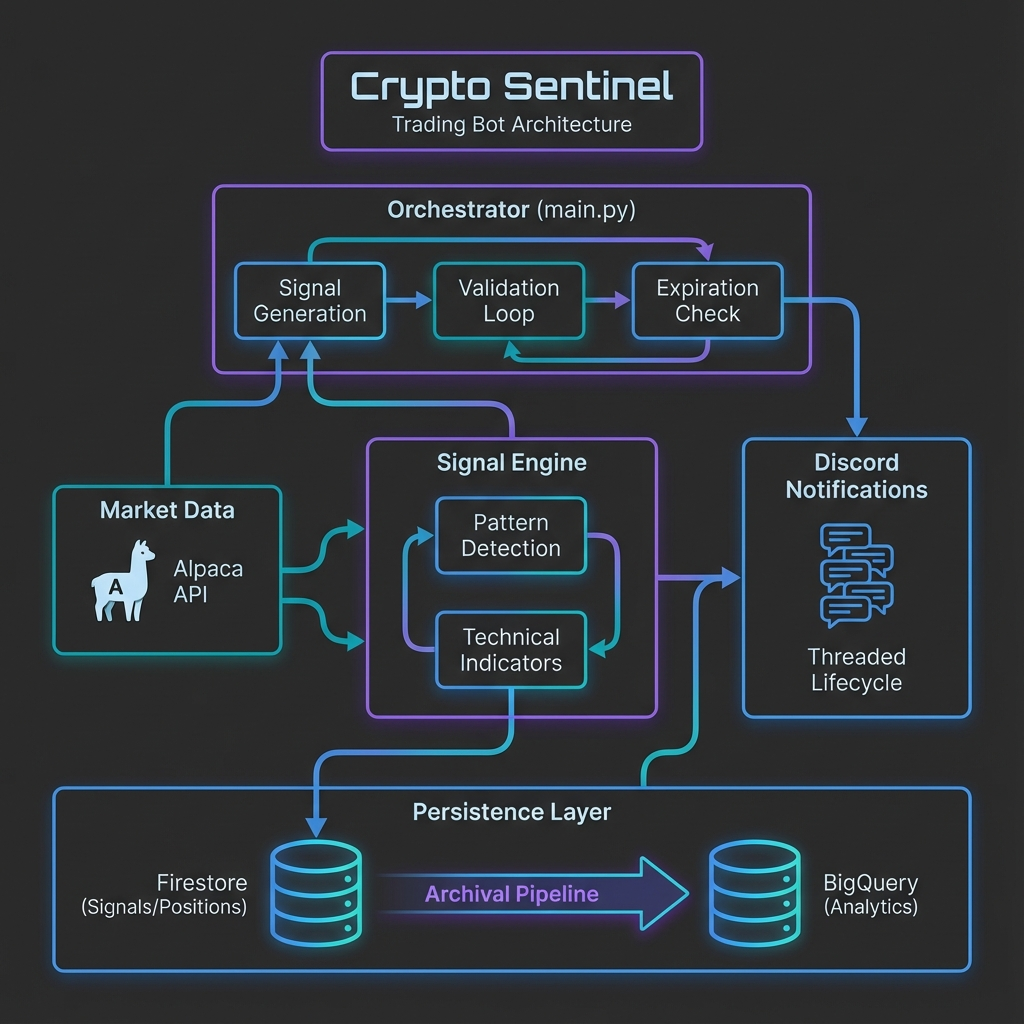
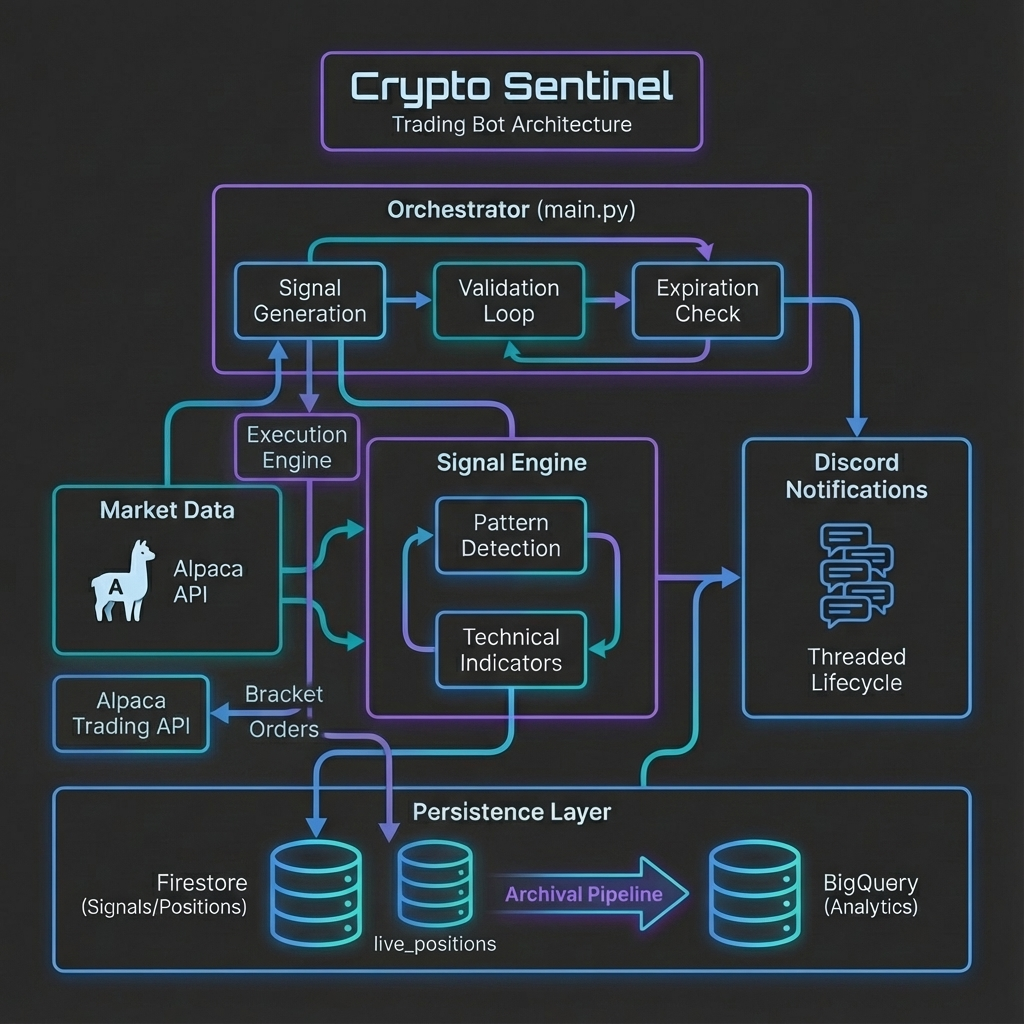
docs: updated docs to reflect current state

Changed region(s): [[0.0312, 0.3438, 0.6562, 0.9375], [0.7188, 0.875, 0.75, 0.9062]]

diff --git a/src/crypto_signals/domain/schemas.py b/src/crypto_signals/domain/schemas.py
@@ -246,17 +246,26 @@ class Position(BaseModel):
     """
     Open position/trade stored in Firestore live_positions collection.
 
-    Represents an actual trade executed based on a signal.
+    Represents an actual trade executed based on a Signal via the ExecutionEngine.
 
-    WARNING:
-        position_id MUST match the Alpaca Client Order ID for idempotency.
-        This ensures we can reconcile positions with the broker and prevent
-        duplicate order submissions.
+    Key Relationships:
+        - position_id: Set to signal_id for idempotency. This is also used as
+          client_order_id when submitting to Alpaca, allowing reconciliation.
+        - signal_id: Reference back to the originating Signal document.
+        - alpaca_order_id: The order ID returned by Alpaca after submission.
+          Use this to query order status and manage the position.
+
+    Example:
+        Signal generates -> ExecutionEngine submits bracket order ->
+        Position created with position_id = signal_id, alpaca_order_id = order.id
     """
 
     position_id: str = Field(
         ...,
-        description="Must match Alpaca Client Order ID for idempotency",
+        description=(
+            "Unique position identifier. Set to signal_id to ensure idempotency "
+            "and allow duplicate detection."
+        ),
     )
     ds: date = Field(
         ...,
@@ -264,15 +273,18 @@ class Position(BaseModel):
     )
     account_id: str = Field(
         ...,
-        description="Alpaca account ID",
+        description="Alpaca account ID (e.g., 'paper' for paper trading)",
     )
     signal_id: str = Field(
         ...,
-        description="Reference to the signal that triggered this position",
+        description="Reference to the Signal that triggered this position",
     )
     alpaca_order_id: Optional[str] = Field(
         default=None,
-        description="Alpaca order ID returned from order submission",
+        description=(
+            "Alpaca's order ID returned after order submission. "
+            "Used for order status queries and reconciliation."
+        ),
     )
     discord_thread_id: Optional[str] = Field(
         default=None,

diff --git a/src/crypto_signals/engine/execution.py b/src/crypto_signals/engine/execution.py
@@ -134,17 +134,15 @@ class ExecutionEngine:
                 },
             )
 
-            # Create Position object for persistence
-            # Note: account_id should be fetched from TradingClient.get_account() in production
             position = Position(
-                position_id=signal.signal_id,  # Match client_order_id for idempotency
+                position_id=signal.signal_id,
                 ds=signal.ds,
-                account_id="paper",  # TODO: Fetch from self.client.get_account().id
+                account_id="paper",  # TODO: Fetch from client.get_account().id
                 signal_id=signal.signal_id,
-                alpaca_order_id=str(order.id),  # Track Alpaca order for reconciliation
+                alpaca_order_id=str(order.id),
                 discord_thread_id=signal.discord_thread_id,
                 status=TradeStatus.OPEN,
-                entry_fill_price=signal.entry_price,  # Will update on fill
+                entry_fill_price=signal.entry_price,
                 current_stop_loss=signal.suggested_stop,
                 qty=qty,
                 side=effective_side,

diff --git a/DEPLOYMENT_CHECKLIST.md b/DEPLOYMENT_CHECKLIST.md
@@ -37,6 +37,8 @@ Use this checklist before deploying Crypto Sentinel to production.
 - [ ] Created GOOGLE_CLOUD_PROJECT secret
 - [ ] Created ALPACA_PAPER_TRADING secret
 - [ ] Created TEST_MODE secret
+- [ ] Created ENABLE_EXECUTION secret (default: false)
+- [ ] Created RISK_PER_TRADE secret (default: 100.0)
 - [ ] (Optional) Created LIVE_CRYPTO_DISCORD_WEBHOOK_URL secret (for production)
 - [ ] (Optional) Created LIVE_STOCK_DISCORD_WEBHOOK_URL secret (for production)
 - [ ] Verified all secrets accessible via gcloud
@@ -73,6 +75,7 @@ Use this checklist before deploying Crypto Sentinel to production.
 
 - [ ] Firestore database created in us-central1 (or your region)
 - [ ] Collection `live_signals` exists
+- [ ] Collection `live_positions` exists (for execution engine)
 - [ ] Test document created and read successfully
 - [ ] Cleanup query tested (expiration_at filter)
 - [ ] TTL field verified on saved signals
@@ -97,6 +100,34 @@ Use this checklist before deploying Crypto Sentinel to production.
 - [ ] IAM permissions set to least privilege
 - [ ] Rate limiting configured (RATE_LIMIT_DELAY >= 0.5)
 - [ ] Paper trading enabled for initial deployment
+
+## ✅ Execution Engine Verification (Optional)
+
+> Only complete this section if enabling automated order execution.
+
+### Risk Settings
+- [ ] `RISK_PER_TRADE` set to appropriate value (default: $100)
+- [ ] Risk per trade calculation verified: `qty = RISK_PER_TRADE / |entry - stop|`
+- [ ] Position sizing tested with sample signals
+
+### Safety Guards
+- [ ] `ALPACA_PAPER_TRADING=true` confirmed (REQUIRED for execution)
+- [ ] `ENABLE_EXECUTION=false` for initial deployment
+- [ ] Understand dual safety requirement before enabling
+
+### Alpaca Paper Trading
+- [ ] Paper trading account funded (simulated balance)
+- [ ] Paper trading API credentials verified
+- [ ] Test order submitted manually via Alpaca dashboard
+- [ ] Bracket order support confirmed for target symbols
+
+### Firestore Position Collection
+- [ ] `live_positions` collection created (auto on first save)
+- [ ] Test position document verified structure:
+  - `position_id` (matches `signal_id`)
+  - `alpaca_order_id` (Alpaca's order ID)
+  - `entry_fill_price`, `current_stop_loss`, `qty`, `side`
+  - `status` (OPEN/CLOSED)
 
 ## ✅ Documentation Review
 

diff --git a/README.md b/README.md
@@ -8,8 +8,9 @@ Crypto Sentinel is a production-ready trading bot that:
 - 📊 Ingests market data for stocks and cryptocurrencies via Alpaca API
 - 🔍 Analyzes technical indicators and patterns using confluence logic
 - 🚀 Generates trading signals with risk management parameters
+- ⚡ **Executes trades via Alpaca Bracket Orders** (Entry, Take-Profit, Stop-Loss)
 - 💬 Sends real-time Discord notifications
-- ☁ Stores signals in Google Cloud Firestore for persistence
+- ☁ Stores signals and positions in Google Cloud Firestore
 - 📈 Archives trade history to BigQuery for analytics
 
 ## Features
@@ -35,6 +36,13 @@ Crypto Sentinel is a production-ready trading bot that:
 - ✅ **Structured Logging**: Context-rich logs with timing metrics
 - ✅ **Health Checks**: Comprehensive service connectivity verification
 - ✅ **Docker Support**: Multi-stage builds with security best practices
+
+### Automated Execution (New)
+- ⚡ **Bracket Orders**: Atomic Entry + Take-Profit + Stop-Loss via Alpaca API
+- 📏 **Risk-Based Position Sizing**: `qty = RISK_PER_TRADE / |entry - stop|`
+- 🔐 **Dual Safety Guards**: Requires `ALPACA_PAPER_TRADING=True` AND `ENABLE_EXECUTION=True`
+- 🔗 **Signal-to-Position Traceability**: `signal_id` used as `client_order_id`
+- 💾 **Position Persistence**: Live positions stored in `live_positions` Firestore collection
 
 ## Architecture
 
@@ -137,6 +145,10 @@ crypto-signals/
 
    # Optional
    RATE_LIMIT_DELAY=0.5  # Seconds between API requests
+
+   # Execution Engine (Paper Trading Only)
+   ENABLE_EXECUTION=false      # Set to true to submit orders
+   RISK_PER_TRADE=100.0        # Fixed dollar risk per trade
    ```
 
 4. **Run health check**:
@@ -183,6 +195,8 @@ crypto-signals/
 | `LIVE_STOCK_DISCORD_WEBHOOK_URL` | No** | - | Live webhook for EQUITY signals (**required if TEST_MODE=false) |
 | `RATE_LIMIT_DELAY` | No | `0.5` | Delay between API requests (seconds) |
 | `DISABLE_SECRET_MANAGER` | No | `false` | Disable Secret Manager (local dev) |
+| `ENABLE_EXECUTION` | No | `false` | Enable bracket order execution |
+| `RISK_PER_TRADE` | No | `100.0` | Fixed dollar amount to risk per trade |
 
 ### Portfolio Configuration
 

diff --git a/DEPLOYMENT.md b/DEPLOYMENT.md
@@ -47,9 +47,18 @@ echo -n "true" | gcloud secrets create TEST_MODE --data-file=-  # Set to 'false'
 # echo -n "your-crypto-discord-webhook" | gcloud secrets create LIVE_CRYPTO_DISCORD_WEBHOOK_URL --data-file=-
 # echo -n "your-stock-discord-webhook" | gcloud secrets create LIVE_STOCK_DISCORD_WEBHOOK_URL --data-file=-
 
+# Execution Engine Configuration (Optional - Paper Trading Only)
+# IMPORTANT: ALPACA_PAPER_TRADING must be 'true' for execution to work
+echo -n "false" | gcloud secrets create ENABLE_EXECUTION --data-file=-  # Set to 'true' to enable order submission
+echo -n "100.0" | gcloud secrets create RISK_PER_TRADE --data-file=-    # Fixed dollar risk per trade
+
 # Verify secrets
 gcloud secrets list
 ```
+
+> **⚠ SAFETY REQUIREMENT**: The execution engine will only submit orders when BOTH conditions are met:
+> 1. `ALPACA_PAPER_TRADING=true` (mandatory safety guard)
+> 2. `ENABLE_EXECUTION=true` (explicit opt-in)
 
 ### 2. Build and Push Docker Image
 
@@ -90,7 +99,7 @@ gcloud run jobs create crypto-signals-job \
     --memory=1Gi \
     --cpu=1 \
     --set-env-vars=GOOGLE_CLOUD_PROJECT=$GCP_PROJECT \
-    --set-secrets=ALPACA_API_KEY=ALPACA_API_KEY:latest,ALPACA_SECRET_KEY=ALPACA_SECRET_KEY:latest,TEST_DISCORD_WEBHOOK=TEST_DISCORD_WEBHOOK:latest,TEST_MODE=TEST_MODE:latest,ALPACA_PAPER_TRADING=ALPACA_PAPER_TRADING:latest
+    --set-secrets=ALPACA_API_KEY=ALPACA_API_KEY:latest,ALPACA_SECRET_KEY=ALPACA_SECRET_KEY:latest,TEST_DISCORD_WEBHOOK=TEST_DISCORD_WEBHOOK:latest,TEST_MODE=TEST_MODE:latest,ALPACA_PAPER_TRADING=ALPACA_PAPER_TRADING:latest,ENABLE_EXECUTION=ENABLE_EXECUTION:latest,RISK_PER_TRADE=RISK_PER_TRADE:latest
 
 # For production with separate crypto/stock webhooks, add:
 # --set-secrets=...,LIVE_CRYPTO_DISCORD_WEBHOOK_URL=LIVE_CRYPTO_DISCORD_WEBHOOK_URL:latest,LIVE_STOCK_DISCORD_WEBHOOK_URL=LIVE_STOCK_DISCORD_WEBHOOK_URL:latest
